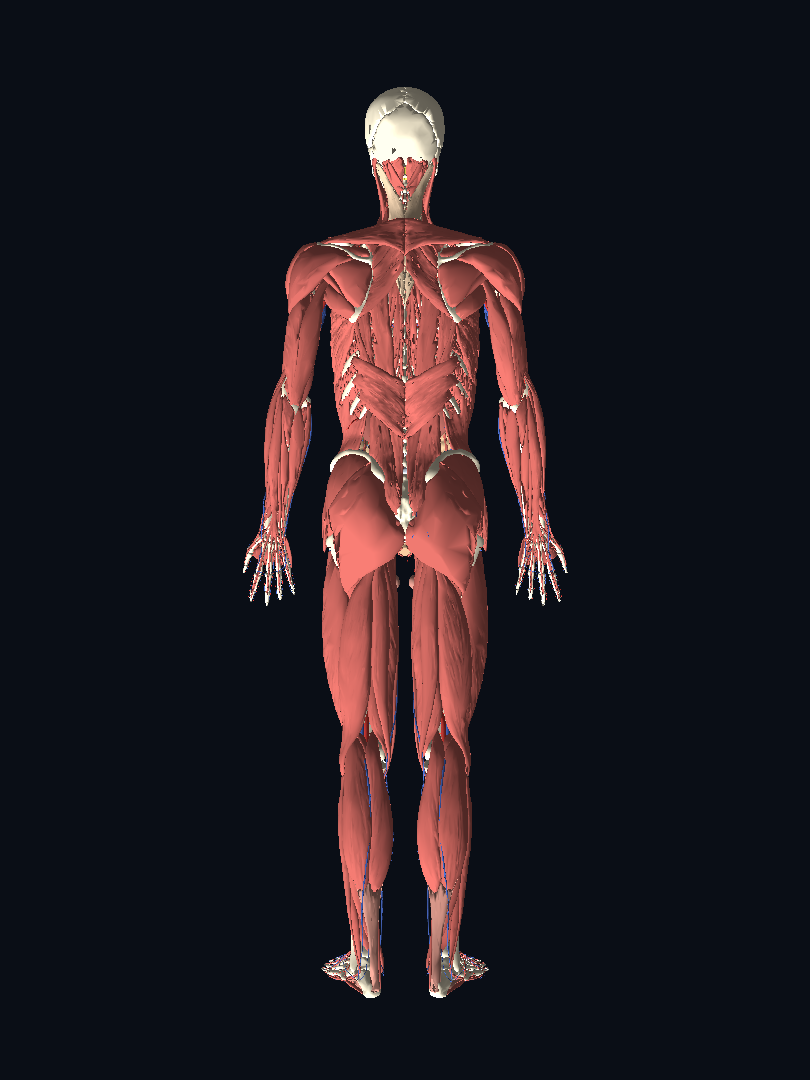
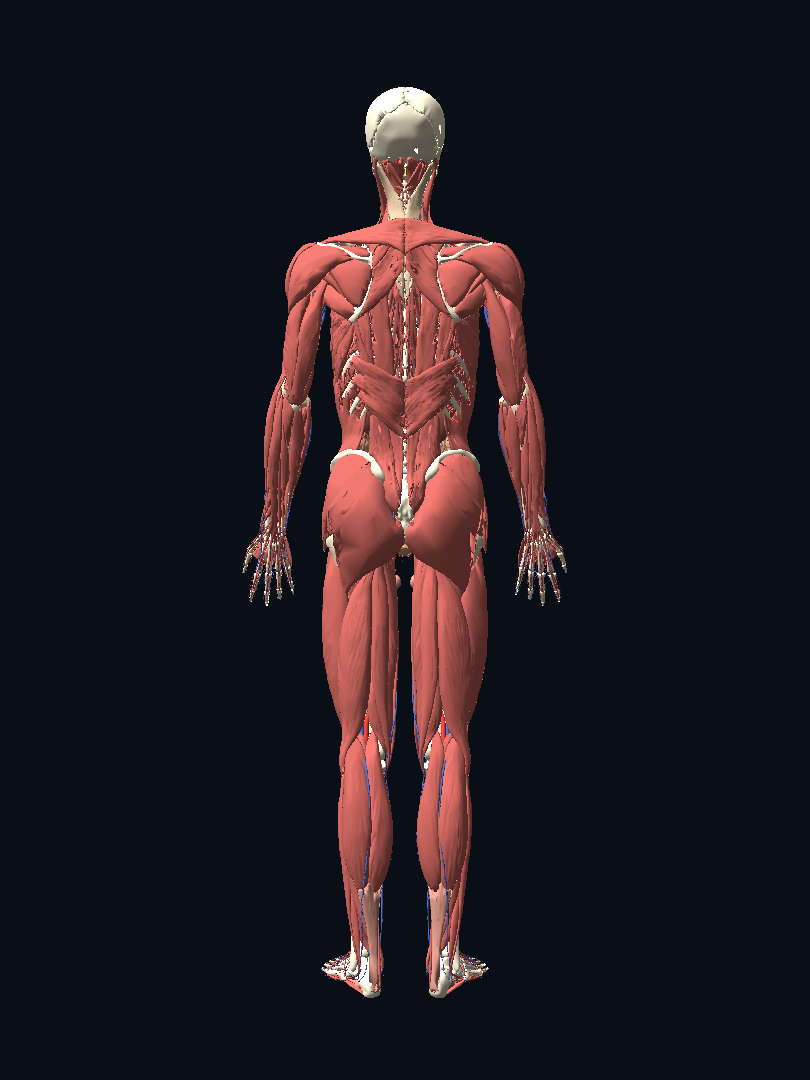
cockpit torso: fix upside-down three.js views (proper upright rotation)
/torso-live and /torso-map rendered head-down: the decode used (x,y,z)->(x,-z,y),
which the Rust preview driver compensated with a screen-space Y-flip, but three.js
uses standard Y-up with no flip -> inverted. Replace with (x,y,z)->(-x,z,y): a
PROPER rotation (det +1, so triangle winding + gl_FrontFacing stay correct, no
mirror) that stands the body head-up in three.js Y-up (model +Z superior -> +Y up).
Applied to all three three.js views (mesh, surfels, map); the preview driver +
/torso turntable frames re-rendered to the same orientation so all four agree.

Claude-Session: https://claude.ai/code/session_01TzqvDqbFRzyx17EkLKBoZF

Changed region(s): [[0.3086, 0.0611, 0.7099, 0.9472]]

diff --git a/cockpit/src/TorsoMesh.tsx b/cockpit/src/TorsoMesh.tsx
@@ -35,7 +35,10 @@ interface Mesh {
 //                | bbox_min 3f | bbox_max 3f
 //   vertex body  vert_count x 21 B: pos 3f | normal 3i8 | rgb 3u8 | opacity u8 | node_row u16
 //   index body   tri_count x 12 B: 3x u32 (global vertex indices)
-// Orientation +90 about X, (x,y,z) -> (x,-z,y), so the body stands head-up.
+// Orientation (x,y,z) -> (-x, z, y): a proper rotation (det +1, so triangle winding
+// and gl_FrontFacing stay correct) that stands the body head-up in three.js's Y-up
+// world (model +Z superior -> world +Y up; +Y anterior -> +Z toward viewer). No
+// screen-flip — three.js is Y-up, so the rotation lives entirely in the decode.
 function decodeSpm1(buf: ArrayBuffer): Mesh {
   const dv = new DataView(buf);
   const magic = String.fromCharCode(dv.getUint8(0), dv.getUint8(1), dv.getUint8(2), dv.getUint8(3));
@@ -50,9 +53,9 @@ function decodeSpm1(buf: ArrayBuffer): Mesh {
   for (let i = 0; i < vertCount; i++) {
     const b = voff + i * 21;
     const x = dv.getFloat32(b, true), y = dv.getFloat32(b + 4, true), z = dv.getFloat32(b + 8, true);
-    positions[i * 3] = x; positions[i * 3 + 1] = -z; positions[i * 3 + 2] = y;
-    normals[i * 3] = dv.getInt8(b + 12) / 127;
-    normals[i * 3 + 1] = -dv.getInt8(b + 14) / 127;
+    positions[i * 3] = -x; positions[i * 3 + 1] = z; positions[i * 3 + 2] = y;
+    normals[i * 3] = -dv.getInt8(b + 12) / 127;
+    normals[i * 3 + 1] = dv.getInt8(b + 14) / 127;
     normals[i * 3 + 2] = dv.getInt8(b + 13) / 127;
     colors[i * 3] = dv.getUint8(b + 15);
     colors[i * 3 + 1] = dv.getUint8(b + 16);

diff --git a/cockpit/src/TorsoMap.tsx b/cockpit/src/TorsoMap.tsx
@@ -44,8 +44,8 @@ interface Spl3 {
 }
 
 // SPL3 body (22 B): pos 3f | normal 3i8 | rgb 3u8 | opacity u8 | scale u8 | node_row u16.
-// Orientation: +90 about X, (x,y,z) -> (x,-z,y) — matches the bake/driver so the
-// body stands head-up (BodyParts3D model +Z is superior).
+// Orientation: (x,y,z) -> (-x, z, y), a proper rotation that stands the body head-up
+// in three.js's Y-up world (BodyParts3D model +Z is superior -> +Y up).
 function decodeSpl3(buf: ArrayBuffer): Spl3 {
   const dv = new DataView(buf);
   const magic = String.fromCharCode(dv.getUint8(0), dv.getUint8(1), dv.getUint8(2), dv.getUint8(3));
@@ -62,9 +62,9 @@ function decodeSpl3(buf: ArrayBuffer): Spl3 {
   for (let i = 0; i < count; i++) {
     const b = off + i * 22;
     const x = dv.getFloat32(b, true), y = dv.getFloat32(b + 4, true), z = dv.getFloat32(b + 8, true);
-    positions[i * 3] = x; positions[i * 3 + 1] = -z; positions[i * 3 + 2] = y;
+    positions[i * 3] = -x; positions[i * 3 + 1] = z; positions[i * 3 + 2] = y;
     const nx = dv.getInt8(b + 12) / 127, ny = dv.getInt8(b + 13) / 127, nz = dv.getInt8(b + 14) / 127;
-    normals[i * 3] = nx; normals[i * 3 + 1] = -nz; normals[i * 3 + 2] = ny;
+    normals[i * 3] = -nx; normals[i * 3 + 1] = nz; normals[i * 3 + 2] = ny;
     colors[i * 3] = dv.getUint8(b + 15) / 255;
     colors[i * 3 + 1] = dv.getUint8(b + 16) / 255;
     colors[i * 3 + 2] = dv.getUint8(b + 17) / 255;

diff --git a/cockpit/src/TorsoSplat.tsx b/cockpit/src/TorsoSplat.tsx
@@ -61,11 +61,12 @@ function decodeSpl3(buf: ArrayBuffer): Spl3 {
   const scale = new Float32Array(count);
   for (let i = 0; i < count; i++) {
     const b = off + i * 22;
-    // upright: +90 about X, (x,y,z) -> (x,-z,y) (matches bake/driver); normals too.
+    // upright: (x,y,z) -> (-x, z, y), a proper rotation that stands the body head-up
+    // in three.js's Y-up world (model +Z superior -> +Y up). normals rotate the same way.
     const x = dv.getFloat32(b, true), y = dv.getFloat32(b + 4, true), z = dv.getFloat32(b + 8, true);
-    positions[i * 3] = x; positions[i * 3 + 1] = -z; positions[i * 3 + 2] = y;
-    normals[i * 3] = dv.getInt8(b + 12) / 127;
-    normals[i * 3 + 1] = -dv.getInt8(b + 14) / 127;
+    positions[i * 3] = -x; positions[i * 3 + 1] = z; positions[i * 3 + 2] = y;
+    normals[i * 3] = -dv.getInt8(b + 12) / 127;
+    normals[i * 3 + 1] = dv.getInt8(b + 14) / 127;
     normals[i * 3 + 2] = dv.getInt8(b + 13) / 127;
     colors[i * 3] = dv.getUint8(b + 15);
     colors[i * 3 + 1] = dv.getUint8(b + 16);
